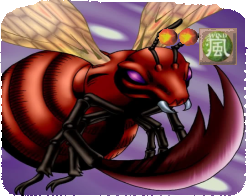
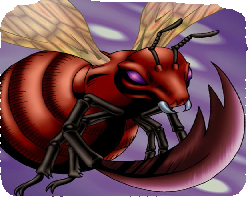
fix old card visuals

diff --git a/YgoDuelistCode/Patches/PatchesForCards/YgoSpellTrapRaceIconPatch.cs b/YgoDuelistCode/Patches/PatchesForCards/YgoSpellTrapRaceIconPatch.cs
@@ -20,10 +20,10 @@ public static class YgoSpellTrapRaceIconPatch
     private const string RaceIconFolder = "YgoDuelist/images/card_frames/Race";
     private const string RaceNodeName = "YgoRaceIcon";
 
-    private const float IconRowHeightPx = 26f;
+    private const float IconRowHeightPx = 30f;
     private const float RaceHorizontalNudgePx = 48f;
 
-    private const float RaceTopGapBelowBannerPx = 2f;
+    private const float RaceTopGapBelowBannerPx = -26f;
 
     private static readonly Dictionary<DuelMonsterRace, Texture2D?> _raceTextures = new();
 
@@ -49,9 +49,16 @@ public static class YgoSpellTrapRaceIconPatch
         if (model is not IYgoCard ygo)
             return;
 
-        // Default/no-icon race.
-        if (ygo.DuelMonsterRace == DuelMonsterRace.Warrior)
+        // Default/no-icon races for which we intentionally do not render an icon.
+        // (Normal spells/traps have their own styling already and would look redundant.)
+        if (ygo.DuelMonsterRace == DuelMonsterRace.Warrior ||
+            ygo.DuelMonsterRace == DuelMonsterRace.SpellNormal ||
+            ygo.DuelMonsterRace == DuelMonsterRace.TrapNormal)
+        {
+            TextureRect? existingRaceIcon = body.GetNodeOrNull<TextureRect>(RaceNodeName);
+            existingRaceIcon?.Hide();
             return;
+        }
 
         var banner = body.GetNodeOrNull<TextureRect>("%TitleBanner");
         if (banner == null)
@@ -140,17 +147,11 @@ public static class YgoSpellTrapRaceIconPatch
     private static string GetRaceIconFileName(DuelMonsterRace race) =>
         race switch
         {
-            DuelMonsterRace.BeastWarrior => "Beast-Warrior.png",
-            DuelMonsterRace.DivineBeast => "Divine-Beast.png",
-            DuelMonsterRace.SeaSerpent => "Sea Serpent.png",
-            DuelMonsterRace.WingedBeast => "Winged Beast.png",
-            DuelMonsterRace.SpellNormal => "Spellcaster.png",
             DuelMonsterRace.SpellContinuous => "Continuous.png",
             DuelMonsterRace.SpellQuickPlay => "Quick-Play.png",
             DuelMonsterRace.SpellEquip => "Equip.png",
             DuelMonsterRace.SpellField => "Field.png",
             DuelMonsterRace.SpellRitual => "Ritual.png",
-            DuelMonsterRace.TrapNormal => "Spellcaster.png",
             DuelMonsterRace.TrapContinuous => "Continuous.png",
             DuelMonsterRace.TrapCounter => "Counter.png",
             _ => $"{race}.png",
